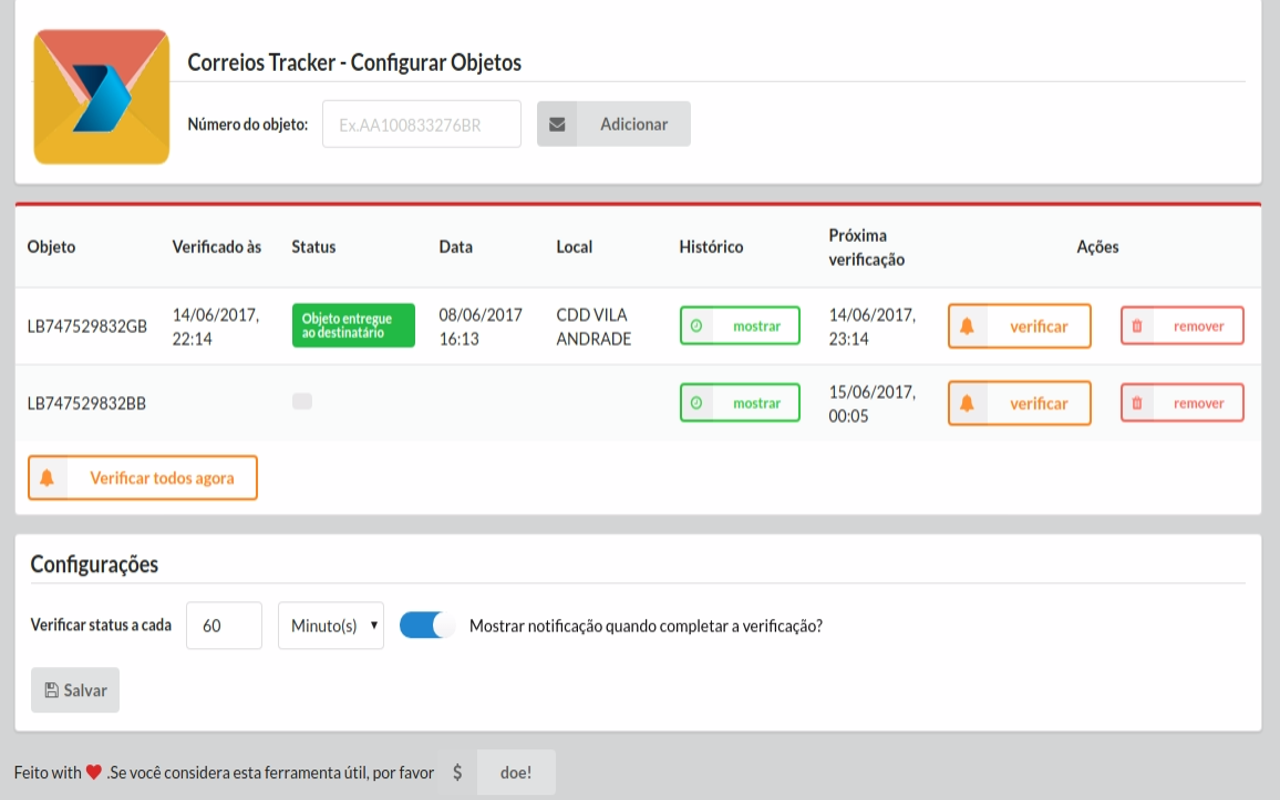
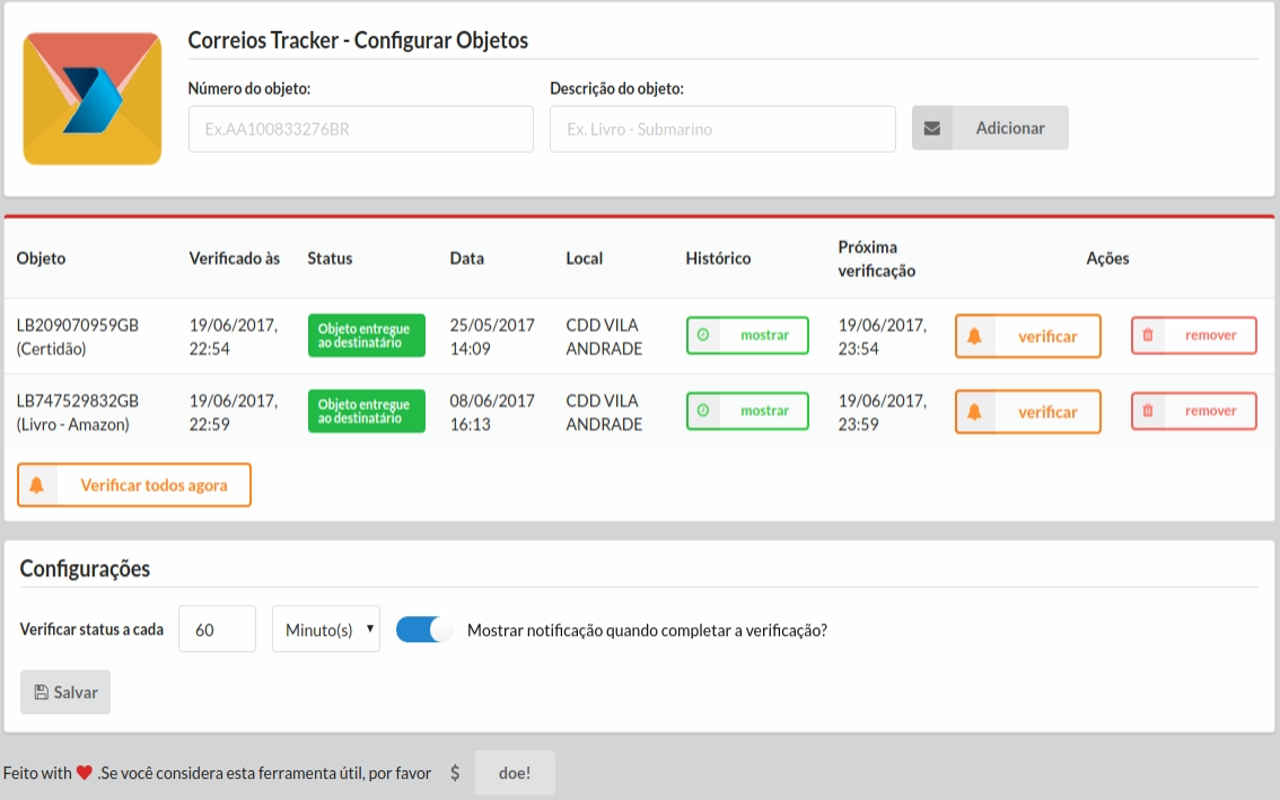
Added reference description from merged

diff --git a/options.html b/options.html
@@ -25,11 +25,11 @@
                                              pattern="[\w\d]{9,21}"
                                              required>
                   </div>
-                  <div for="referenceDescription" class="field">
-                    <label>Descrição do objeto: </label>
+                  <div class="field">
+                    <label for="referenceDescription">Descrição do objeto: </label>
                     <input type="text" class="input" id="referenceDescription"
                                              maxlength="64"
-                                             placeholder="Livro - Submarino"
+                                             placeholder="Ex. Livro - Submarino"
                                              required>
                   </div>
                   <div class="field">

diff --git a/js/options.js b/js/options.js
@@ -149,7 +149,7 @@ function renderTrackHistory(item) {
 
   let template = `
     <table class="ui red striped table">
-      <caption class="ui red header">Número do Objeto: ${item.referenceNumber}</caption>
+      <caption class="ui red header">Número do Objeto: ${item.referenceNumber} (${item.referenceDescription})</caption>
       <thead>
         <th>Data</th>
         <th>Status</th>

diff --git a/README.md b/README.md
@@ -8,3 +8,14 @@ This is an chrome extension that provides the functionality to enquire on the tr
 ![](screenshots/configure-items.png?raw=true)
 
 ![](screenshots/tracks.png?raw=true)
+
+## Contributing
+
+Once you've made your great commits:
+
+1. [Fork](http://help.github.com/forking/) correios-tracker
+2. Create a branch with a clear name
+3. Make your changes (Please also add/change README and CHANGELOG if applicable)
+4. Push changes to the created branch
+5. [Create an Pull Request](http://github.com/achambel/correios-tracker/pulls)
+6. That's it!

diff --git a/CHANGELOG.md b/CHANGELOG.md
@@ -1,0 +1,19 @@
+# Change Log
+All notable changes to this project will be documented in this file.
+This project adheres to [Semantic Versioning](http://semver.org/).
+
+
+## [0.2.0] - 2017-06-19
+
+### Added
+
+- A description field to tracked objects to make it easier to figure out what the number is referring to.
+Many thanks to [bolaum](https://github.com/bolaum) for the [first pull request](https://github.com/achambel/correios-tracker/pull/1), good job.
+
+### Changed
+
+- Nothing
+
+### Fixed
+
+- Nothing
